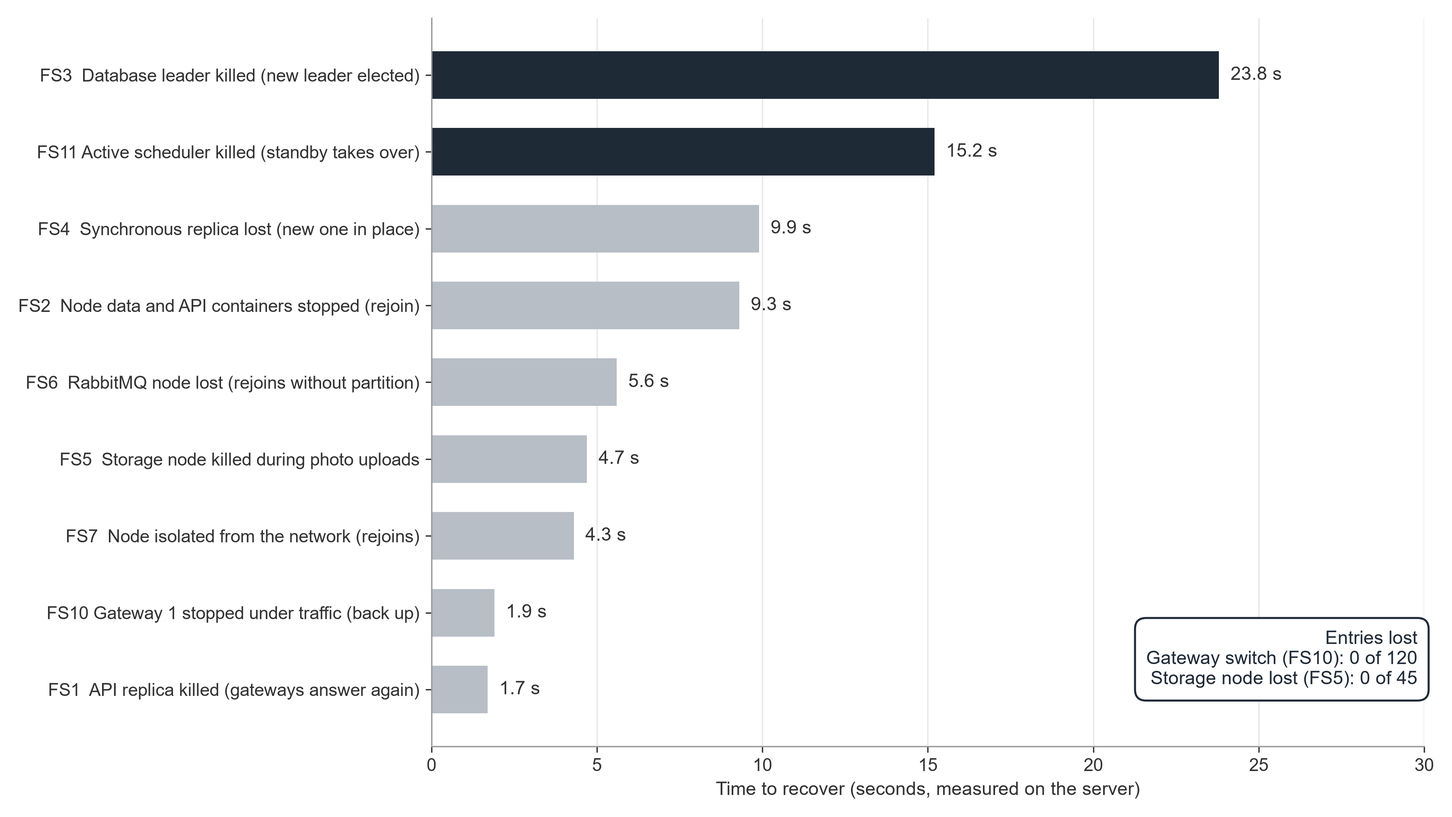
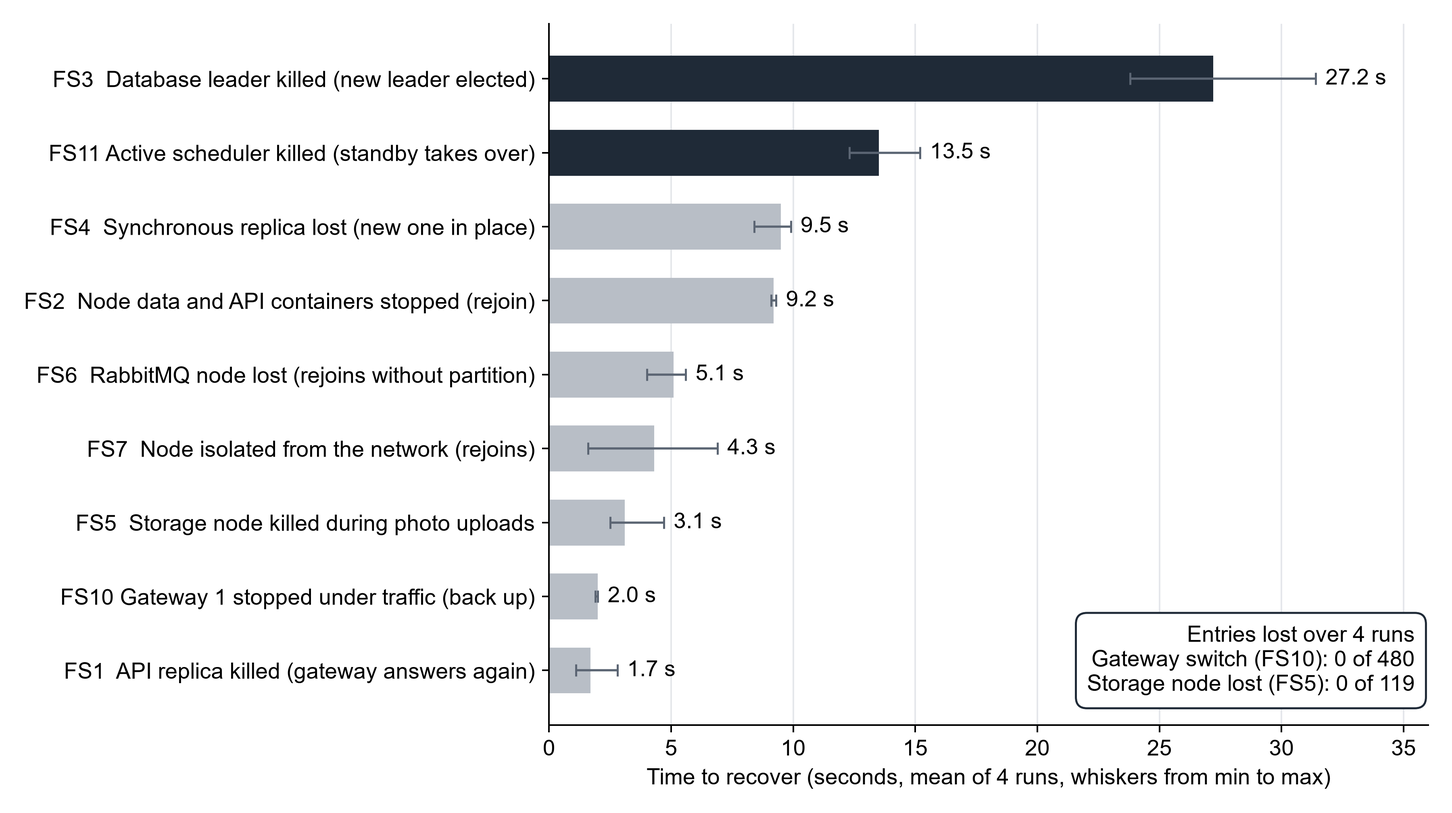
Publish the averaged fault results, the FS8 run and the new fault chart

diff --git a/Fieldnote/04_Documentacao_Tecnica/fault-model.md b/Fieldnote/04_Documentacao_Tecnica/fault-model.md
@@ -1,8 +1,9 @@
 # Fault model
 
-Status: implemented and measured, 11 November 2026. The scenarios were run on the server on 9 November
-2026 with the scripts in `infra/chaos/`: scenarios 1 to 7, 10 and 11 pass on the three-node cluster. Scenario 9 passed on the
-development stack. Scenario 8 has not been run with a phone yet. The three logical nodes are container groups on one virtual
+Status: implemented and measured; each server scenario was run four times, the first on 9 November 2026. The scenarios
+use the scripts in `infra/chaos/`: scenarios 1 to 7, 10 and 11 passed all four runs on the three-node cluster (36 of 36). Scenario 9
+passed on the development stack. Scenario 8 passed on the Android emulator; a run on a physical phone is planned for the final
+delivery. The three logical nodes are container groups on one virtual
 machine, so the tests show the behaviour of the clusters when a node's containers stop or its network is cut; they do not show
 the loss of a physical machine.
 
@@ -19,23 +20,23 @@ Docker host itself is outside them: see [single points of failure](#single-point
 | Functions available after one failure | Receiving entries, the researcher dashboard, delivery of scheduled activities (push, or on app open if push fails) |
 | How failures are detected | Traefik health checks on `/api/v1/health/ready`, Patroni leader keys with a TTL in etcd, the scheduler lease, RabbitMQ and Garage cluster membership. Prometheus and Grafana show the metrics; no alert rules are defined |
 | How components recover | Docker restarts crashed containers (`restart: unless-stopped`; a container stopped with `docker kill` counts as stopped by hand and stays down, so the scripts start it again), Patroni promotes the synchronous replica, the standby scheduler takes the lease, a returning node rejoins its clusters and resynchronises |
-| Data that can be lost | When one logical node fails, no entry is lost once the API has confirmed it (recovery point objective of zero). The API confirms only after the synchronous commit has returned successfully, and the database waits for the synchronous replica rather than confirm on one node. The one documented exception, a cancelled commit wait, is the edge case row in [what can be lost or repeated](#what-can-be-lost-or-repeated); the API never confirms in that case. The loss of the host is the declared exception: data returns from the last daily backup, and entries made after it are lost. The zero was measured for two cases: 45 entries with photos sent while a Garage node was down (0 lost, 0 duplicated) and 120 entries sent while gateway 1 was down (0 lost, 0 duplicated) |
+| Data that can be lost | When one logical node fails, no entry is lost once the API has confirmed it (recovery point objective of zero). The API confirms only after the synchronous commit has returned successfully, and the database waits for the synchronous replica rather than confirm on one node. The one documented exception, a cancelled commit wait, is the edge case row in [what can be lost or repeated](#what-can-be-lost-or-repeated); the API never confirms in that case. The loss of the host is the declared exception: data returns from the last daily backup, and entries made after it are lost. The zero was measured for two cases, over four runs each: 119 entries with photos sent while a Garage node was down (0 lost, 0 duplicated) and 480 entries sent while gateway 1 was down (0 lost, 0 duplicated) |
 | Consistency between replicas | Strict synchronous replication to one database replica, quorum writes in object storage and in the broker queues |
 
 ## Recovery times
 
-Targets come from the design; measured values come from the run on the server on 9 November 2026.
+Targets come from the design. Each cluster scenario was run four times on the server under the same conditions, the first on 9 November 2026. Measured values are the mean of the four runs, with min to max in brackets. The raw logs of the first run are in `infra/chaos/results/20261109-2016/` in the repository, and `python infra/chaos/summarize.py <logs folder> --md` turns a folder of logs into this kind of table.
 
 | Component | Target | Measured | Basis |
 |---|---|---|---|
-| API replica | Under 5 s | Both gateways answer again after 1.1 s and 1.7 s; all 3 APIs healthy 9.3 s after `api2` is started again | Traefik health check every 2 s |
-| Gateway | Under 5 s | 0 of 120 entries lost while gateway 1 was stopped; gateway 1 answers again 1.9 s after the restart. The time of the first switch is not recorded in the table | The app switches to the other gateway after a failed request |
-| Scheduler | Under 20 s | 15.2 s | Lease of 15 s plus one renewal period, with the database available |
-| Database primary | Up to 45 s | 23.8 s until `pg3` leads; the old primary rejoined as a replica and the cluster was complete after 27 s | Patroni `ttl` 30 s, `loop_wait` 10 s. `/health/ready` needs the database primary, so the API and the dashboard do not answer during this pause |
-| Synchronous replica | A few seconds of paused writes | New synchronous replica after 9.9 s, with 0 failed requests on both gateways | Patroni assigns the synchronous role to the other replica |
-| Broker node, storage node | No interruption expected | RabbitMQ left the active set in 0.7 s and rejoined without a partition in 5.6 s. Garage was back at 3 of 3 nodes after 4.7 s, with 45 of 45 photo entries confirmed | The remaining 2 members hold the quorum. An upload connected to the failed storage node is retried with a new signed URL |
-| Logical node | Services keep 2 of 3 members | The other two nodes kept leader and synchronous replica; the node joined every cluster again 9.3 s after it was restarted | Quorum of 2 in every cluster |
-| Partitioned node | The pair keeps working | Same result; the node joined again 4.3 s after the network was reconnected | `cluster` network disconnected for the node |
+| API replica | Under 5 s | Gateway 1 answers again after 1.7 s (1.1 to 2.8 s), gateway 2 after 1.3 s (1.1 to 1.7 s); all 3 APIs healthy 9.7 s (8.8 to 10.5 s) after `api2` is started again | Traefik health check every 2 s with a 1 s timeout, so a failed replica is out of the routing within a few seconds |
+| Gateway | Under 5 s | 0 of 480 entries lost over four runs while gateway 1 was stopped; each client retried on gateway 2 less than 1 ms after the error (target under 5 s); gateway 1 answers again 2.0 s (1.9 to 2.0 s) after the restart | The app switches to the other gateway after a failed request |
+| Scheduler | Under 20 s | 13.5 s (12.3 to 15.2 s) | Lease of 15 s renewed every 5 s, so takeover comes 10 to 15 s after the leader dies, with the database available |
+| Database primary | Up to 45 s | New leader elected in 27.2 s (23.8 to 31.4 s); the old primary rejoined as a replica and the cluster was complete again in 31.0 s (27.0 to 34.5 s) | Patroni `ttl` 30 s and `loop_wait` 10 s: the leader key expires 20 to 30 s after the primary dies. `/health/ready` needs the database primary, so the API and the dashboard do not answer during this pause |
+| Synchronous replica | A few seconds of paused writes | New synchronous replica after 9.5 s (8.4 to 9.9 s), with 0 failed requests | Patroni assigns the synchronous role to the other replica |
+| Broker node, storage node | No interruption expected | RabbitMQ left the active set in 0.6 s (0.6 to 0.7 s) and rejoined without a partition in 5.1 s (4.0 to 5.6 s). Garage was back at 3 of 3 nodes after 3.1 s (2.5 to 4.7 s), with 119 of 119 photo entries confirmed over four runs | The remaining 2 members hold the quorum. An upload connected to the failed storage node is retried with a new signed URL |
+| Logical node | Services keep 2 of 3 members | The other two nodes kept leader and synchronous replica; the node joined every cluster again 9.2 s (9.1 to 9.3 s) after it was restarted | Quorum of 2 in every cluster |
+| Partitioned node | The pair keeps working | Same result; the node joined again 4.3 s (1.6 to 6.9 s) after the network was reconnected | `cluster` network disconnected for the node |
 
 ## What can be lost or repeated
 
@@ -70,18 +71,18 @@ time to detection and recovery, restores the service and prints PASS or FAIL. Sc
 and count lost and duplicated entries. `docker kill` simulates a crash; the scripts then start the container again, because
 Docker does not restart a container stopped that way. Scenario 2 stops the 8 containers `etcd`, `pg`, `rabbitmq`, `garage`,
 `api`, `traefik`, `outbox-relay` and, on node 2, `media-worker` of the node; the scheduler and Tailscale containers stay up.
-Records of the server run are in `/srv/fieldnote/chaos/20261109-2016/` on the virtual machine.
+The raw logs of the first server run are in `infra/chaos/results/20261109-2016/` in the repository. To reproduce the table of means, minimums and maximums from a folder of logs, run `python infra/chaos/summarize.py <logs folder> --md`.
 
 | # | Injected failure | Status | Measured result |
 |---|---|---|---|
-| 1 | Kill an API container while entries are being sent | Pass on the server | Both gateways answer again after 1.1 s and 1.7 s (target under 5 s); all 3 APIs healthy 9.3 s after the restart. Loss of entries not measured here |
-| 2 | Stop every container of one logical node, start them again later | Pass on the server (node 2) | The other two nodes keep leader and synchronous replica with 2 of 3 members; the node joins every cluster again after 9.3 s |
-| 3 | Kill the database primary | Pass on the server | `pg3` leads after 23.8 s (target up to 45 s); the old primary rejoins as a replica, cluster complete after 27 s. The API and the dashboard do not answer during the pause |
-| 4 | Kill the synchronous database replica | Pass on the server | New synchronous replica after 9.9 s; 0 failed requests on both gateways; no write lost |
-| 5 | Kill an object storage node during media uploads | Pass on the server | 45 entries with photos sent, 45 confirmed, 0 lost, 0 duplicated; Garage at 3 of 3 nodes after 4.7 s |
-| 6 | Kill a broker node | Pass on the server | The node leaves the active set after 0.7 s and rejoins without a partition after 5.6 s. Loss of events not measured here |
-| 7 | Disconnect one node from the `cluster` network | Pass on the server (node 2) | The remaining pair keeps leader and synchronous replica; the node joins again 4.3 s after reconnection |
-| 8 | Phone in airplane mode during 3 entries | Not run yet | Needs the preview APK on a phone and a researcher token; the script `fs8-airplane-mode.sh` exists. The app does keep entries in its queue and resend them, which is covered by the app's tests, not by this scenario |
+| 1 | Kill an API container while entries are being sent | Pass on the server, 4 of 4 runs | Gateway 1 answers again after 1.7 s (1.1 to 2.8 s) and gateway 2 after 1.3 s (1.1 to 1.7 s) (target under 5 s); all 3 APIs healthy 9.7 s (8.8 to 10.5 s) after the restart. Loss of entries not measured here |
+| 2 | Stop every container of one logical node, start them again later | Pass on the server (node 2), 4 of 4 runs | The other two nodes keep leader and synchronous replica with 2 of 3 members; the node joins every cluster again after 9.2 s (9.1 to 9.3 s) |
+| 3 | Kill the database primary | Pass on the server, 4 of 4 runs | New leader after 27.2 s (23.8 to 31.4 s; target up to 45 s); the old primary rejoins as a replica, cluster complete after 31.0 s (27.0 to 34.5 s). The API and the dashboard do not answer during the pause |
+| 4 | Kill the synchronous database replica | Pass on the server, 4 of 4 runs | New synchronous replica after 9.5 s (8.4 to 9.9 s); 0 failed requests; no write lost |
+| 5 | Kill an object storage node during media uploads | Pass on the server, 4 of 4 runs | Over four runs 119 entries with photos sent, 119 confirmed, 0 lost, 0 duplicated, all files readable; Garage back at 3 of 3 nodes after 3.1 s (2.5 to 4.7 s) |
+| 6 | Kill a broker node | Pass on the server, 4 of 4 runs | The node leaves the active set after 0.6 s (0.6 to 0.7 s) and rejoins without a partition after 5.1 s (4.0 to 5.6 s). Loss of events not measured here |
+| 7 | Disconnect one node from the `cluster` network | Pass on the server (node 2), 4 of 4 runs | The remaining pair keeps leader and synchronous replica; the node joins again 4.3 s (1.6 to 6.9 s) after reconnection |
+| 8 | Phone in airplane mode during 3 entries | Pass on the Android emulator | Pixel 8 image with the preview APK connected to the cluster gateways. The script `fs8-airplane-mode.sh` turned Wi-Fi and mobile data off, 3 text entries were recorded offline (the app showed them as waiting for network), the network came back and the 3 entries reached the server about 2 s later, each exactly once. A run on a physical phone is planned for the final delivery |
 | 9 | Restore the latest encrypted backup on a clean stack | Passed on the development stack, not in the server run | Runs in a throwaway project with its own PostgreSQL and Garage and compares the counts of entries and files, leaving out participants with a pending erasure. The figures are not in the server results table |
-| 10 | Stop gateway 1 while the app and the dashboard are in use | Pass on the server | 10 simulated phones sent 120 entries, 120 confirmed, 0 lost, 0 duplicated, switching to gateway 2; gateway 1 answers again after 1.9 s. Text entries only, because media uploads depend on gateway 1 |
-| 11 | Kill the active scheduler replica during the day | Pass on the server | The standby holds the lease after 15.2 s (target under 20 s); no plan duplicated |
+| 10 | Stop gateway 1 while the app and the dashboard are in use | Pass on the server, 4 of 4 runs | Over four runs 10 simulated phones per run sent 480 entries, 480 confirmed, 0 lost, 0 duplicated; each client retried on gateway 2 less than 1 ms after the error (target under 5 s); gateway 1 answers again 2.0 s (1.9 to 2.0 s) after the restart. Text entries only, because media uploads depend on gateway 1 |
+| 11 | Kill the active scheduler replica during the day | Pass on the server, 4 of 4 runs | The standby holds the lease after 13.5 s (12.3 to 15.2 s) (target under 20 s); no plan duplicated |

diff --git a/Fieldnote/01_Memoria_Descritiva/memoria.md b/Fieldnote/01_Memoria_Descritiva/memoria.md
@@ -1,7 +1,7 @@
 # Descriptive report: Fieldnote
 
 Version 2, 11 November 2026 (second delivery). The platform is built and runs as a working prototype;
-this version describes it as built. The phone fault test (FS8) is the only scenario still to run.
+this version describes it as built. The phone fault test (FS8) was run on the Android emulator; a run on a physical phone is planned for the final delivery.
 
 ## Identification
 
@@ -35,7 +35,7 @@ Fieldnote is a distributed platform for mobile ethnography and diary studies. Pa
 
 The platform is built and runs. Researchers use a web dashboard to create studies and activities, invite participants with personal codes, poster codes or a volunteer pool, follow entries and adherence in real time, tag entries and export the data. Participants use an Android app to join a study by QR code or typed code, accept the consent, receive prompts and record text, photo, video, audio, scale or choice entries with date, time and, when the study asks for it, location. The app keeps entries in a local queue while offline and resends them without duplicates. Administrators manage researcher accounts, the audit log and data erasure.
 
-The backend runs as three logical nodes on one virtual machine, reached through two Tailscale gateways with HTTPS. Each node holds an API replica and one member of each data cluster: PostgreSQL with Patroni, RabbitMQ with quorum queues and Garage object storage with three copies of every file. We tested eleven failure scenarios with scripts. Ten pass, nine of them on the server: the database leader is replaced in 23.8 s, a gateway failure loses none of 120 entries, some with photos, sent from ten simulated phones, the loss of a storage node loses none of 45 photo entries, and a standby scheduler takes over in 15.2 s. The restore of the encrypted backup also passes. The phone in airplane mode is still to be run. The whole stack starts with Docker Compose and is monitored with Prometheus and Grafana.
+The backend runs as three logical nodes on one virtual machine, reached through two Tailscale gateways with HTTPS. Each node holds an API replica and one member of each data cluster: PostgreSQL with Patroni, RabbitMQ with quorum queues and Garage object storage with three copies of every file. We tested eleven failure scenarios with scripts, and all pass. Nine ran on the server, each four times (36 of 36 passed): the database leader is replaced in 27.2 s on average, a gateway failure loses none of 480 entries sent from ten simulated phones, the loss of a storage node loses none of 119 photo entries, and a standby scheduler takes over in 13.5 s. The restore of the encrypted backup passes on the development stack, and the phone in airplane mode passes on the Android emulator. The whole stack starts with Docker Compose and is monitored with Prometheus and Grafana.
 
 The artificial intelligence component is a constraint satisfaction scheduler implemented from scratch, with backtracking, forward checking, MRV, LCV and AC-3, which decides when to prompt each participant. On generated studies of up to 100 participants it breaks no constraint, while fixed-hour prompting overloads slots and breaks minimum gaps. On 300 small studies it matched an exhaustive search every time. AC-3 reports the clashes of minimum gaps and leaves to the search the choice of which prompt to drop. The scheduler also weighs load by entry type and shares capacity across studies.
 
@@ -174,23 +174,25 @@ are in `05_Artefactos/mockups`.
   aggregate and handle erasure requests, confirmed with a one-time code.
 - Entries carry a UUID created on the phone, so a resend after a failure never duplicates one.
 
-Fault tolerance was measured with the failure scripts on the server. Ten of eleven scenarios
-pass:
+Fault tolerance was measured with the failure scripts on the server. All eleven scenarios pass.
+Each of the nine cluster scenarios was run four times on the server and passed every time
+(36 of 36); the first run was on 9 November 2026. The values below are the mean of the four runs:
 
 | Scenario | Measured result |
 |---|---|
-| Kill an API container | Both gateways answer again in under 2 s |
-| Kill the database leader | New leader in 23.8 s; the old one returns as a replica |
-| Kill the synchronous replica | New synchronous replica in 9.9 s, no failed request |
-| Stop the data and API containers of a node | The other two keep the leader and a synchronous replica; the node rejoins in 9.3 s |
-| Kill a broker node | Out of the active set in 0.7 s; rejoins in 5.6 s |
+| Kill an API container | Gateway 1 answers again in 1.7 s and gateway 2 in 1.3 s; all three APIs healthy 9.7 s after the restart |
+| Kill the database leader | New leader in 27.2 s (23.8 to 31.4 s); the old one returns as a replica and the cluster is complete in 31.0 s |
+| Kill the synchronous replica | New synchronous replica in 9.5 s, no failed request |
+| Stop the data and API containers of a node | The other two keep the leader and a synchronous replica; the node rejoins in 9.2 s |
+| Kill a broker node | Out of the active set in 0.6 s; rejoins in 5.1 s |
 | Cut a node off the network | The remaining pair keep working; the node rejoins 4.3 s after reconnection |
-| Kill a storage node during uploads | 45 photo entries sent, 45 confirmed, none lost or duplicated |
-| Stop gateway 1 under ten simulated phones | Clients switch to gateway 2; 120 sent, 120 confirmed |
-| Kill the active scheduler | The standby takes over in 15.2 s, no duplicate plan |
+| Kill a storage node during uploads | 119 photo entries sent over four runs, 119 confirmed, none lost or duplicated; Garage back at 3 of 3 nodes in 3.1 s |
+| Stop gateway 1 under ten simulated phones | Clients retry on gateway 2 in under 1 ms; 480 sent over four runs, 480 confirmed, none lost or duplicated |
+| Kill the active scheduler | The standby takes over in 13.5 s, no duplicate plan |
 | Restore the encrypted backup | Passes on the development stack |
+| Phone in airplane mode | Passes on the Android emulator: 3 entries recorded offline reached the server about 2 s after the network came back, each once |
 
-The eleventh scenario, a phone in airplane mode, still has to be run with a real phone.
+The airplane mode scenario has not been run on a physical phone yet; that run is planned for the final delivery.
 
 ### Relevant contributions
 
@@ -246,7 +248,7 @@ The eleventh scenario, a phone in airplane mode, still has to be run with a real
   its network link is outside the fault model, and starting the stack elsewhere is manual.
 - Network failures are simulated by cutting one node off from the other two. Packet loss,
   latency and other partitions are not tested.
-- The phone fault test (FS8) has not run yet. The camera and microphone were tested only on the
+- The phone fault test (FS8) ran on the Android emulator only. The camera and microphone were tested only on the
   emulator, and push notifications need the Firebase key in the Expo project.
 - The app is built and tested for Android only.
 - Access is limited to devices on the project's Tailscale network.
@@ -259,7 +261,7 @@ The eleventh scenario, a phone in airplane mode, still has to be run with a real
 
 ### Future work
 
-- Run FS8 with a phone, and give each logical node its own virtual machine for the final delivery.
+- Run FS8 on a physical phone, and give each logical node its own virtual machine for the final delivery.
 - Add rate limiting and the cleanup of orphan uploads.
 - Stream the export instead of building it whole.
 - A lower bound for branch and bound from the AC-3 clashes.

diff --git a/Fieldnote/04_Documentacao_Tecnica/architecture.md b/Fieldnote/04_Documentacao_Tecnica/architecture.md
@@ -138,7 +138,7 @@ The participant app's interface texts and the consent text are available in Port
 | Client | Every phone is independent | The app sees a network error or a timeout | The entry stays in the local queue and is resent with the same UUID |
 | Entry | 2 gateways, each with Tailscale and Traefik | The client's request fails with a network error, a 502, 503 or 504, or after 10 s | The app repeats the request once on the other gateway |
 | API | 3 stateless replicas | Traefik calls `/api/v1/health/ready` every 2 s with a 1 s timeout. It answers 503 if the replica cannot reach the database primary or a broker | Traefik stops routing to the failed replica. Docker restarts a crashed container |
-| Scheduler | 2 replicas, one leader | The leader renews a lease row in the database every 5 s. A lease not renewed for 15 s has expired | The standby takes the expired lease and continues from the plan stored in the database. Measured takeover: 15.2 s |
+| Scheduler | 2 replicas, one leader | The leader renews a lease row in the database every 5 s. A lease not renewed for 15 s has expired | The standby takes the expired lease and continues from the plan stored in the database. Measured takeover: 13.5 s on average over four runs (12.3 to 15.2 s) |
 | Database | 1 primary, 1 synchronous replica, 1 asynchronous replica | The primary stops renewing its leader key in etcd (TTL 30 s) | Patroni promotes the synchronous replica. The old primary rejoins as a replica |
 | Broker | 3 nodes, quorum queues | The RabbitMQ cluster loses a member | Queues keep working with 2 of 3 members. Unacknowledged messages are delivered again |
 | Object storage | 3 copies, one per zone, writes confirmed after 2 | Garage nodes stop seeing the member | Reads and writes continue with 2 nodes. The returning node catches up |
@@ -204,7 +204,7 @@ emptied when a write fails with a connection error. The API retries the whole tr
 times; the retry is safe because every write is idempotent. A primary cut off from etcd demotes
 itself to read-only when its leader key expires, so it stops accepting writes.
 
-A multi-host connection string with `target_session_attrs` is a libpq feature, which psycopg 3 supports. On the server a failover of the primary took 23.8 s, inside the Patroni target of 45 s.
+A multi-host connection string with `target_session_attrs` is a libpq feature, which psycopg 3 supports. On the server a failover of the primary took 27.2 s on average over four runs (23.8 to 31.4 s), inside the Patroni target of 45 s.
 
 ### Real time
 
@@ -229,7 +229,7 @@ because the app asks the API for pending prompts every time it opens.
 ## What is not done
 
 - One virtual machine per node: the nodes are logical, on one VM, until the final delivery.
-- Scenario 8 of the fault model (phone in airplane mode) has not been run with a phone.
+- Scenario 8 of the fault model (phone in airplane mode) passed on the Android emulator; it has not been run on a physical phone.
 - Rate limiting at the gateways is not configured; only the API throttles logins and account sign-in codes.
 - Cleanup of orphan media objects (`pending` after 7 days) and the purge of published outbox events.
 - Prometheus has no alert rules.

diff --git a/README.md b/README.md
@@ -36,9 +36,10 @@ Distribuída para Mobile Ethnography e Diary Studies").
 Working prototype for the second delivery. The API, the scheduler, the media worker, the
 researcher dashboard and the participant app run against the development stack and against the
 three-node cluster, which is deployed on a server and reached through two Tailscale gateways with
-HTTPS. Ten of the eleven failure scenarios of the fault model pass (nine on the server, plus the
-restore of the encrypted backup on the development stack); the eleventh, a phone in airplane mode,
-still has to be run with a phone. The scheduler is evaluated with a reproducible suite
+HTTPS. All eleven failure scenarios of the fault model pass: nine on the server, each run four times
+(36 of 36), the restore of the encrypted backup on the development stack, and the phone in
+airplane mode on the Android emulator (a run on a physical phone is planned for the final
+delivery). The scheduler is evaluated with a reproducible suite
 (`services/scheduler/evaluation/results.md`). Push notifications through Expo still need the
 Firebase key in the Expo project, and the camera and microphone are tested only on the emulator.
 The app is built for Android only. Rate limiting and the cleanup of abandoned uploads are not
@@ -144,14 +145,16 @@ approved by the Artificial Intelligence lecturer on 1 October 2026.
 Security measures are in [security](Fieldnote/04_Documentacao_Tecnica/security.md), and the
 failures, with how each is detected and recovered, in the [fault model](Fieldnote/04_Documentacao_Tecnica/fault-model.md).
 
-Measured on the server with the scripts in `infra/chaos/`:
+Measured on the server with the scripts in `infra/chaos/`, as the mean of four runs. The raw logs of the
+first run are in `infra/chaos/results/20261109-2016/`; `python infra/chaos/summarize.py <logs folder> --md`
+turns a folder of logs into the mean, min and max table.
 
 | Failure | Result |
 |---|---|
-| Database leader killed | New leader in 23.8 s |
-| Gateway 1 stopped under traffic from 10 simulated phones | Clients switch to gateway 2; 0 of 120 entries lost |
-| Storage node killed during photo uploads | 0 of 45 entries lost |
-| Active scheduler killed | Standby takes over in 15.2 s, no duplicate plan |
+| Database leader killed | New leader in 27.2 s (23.8 to 31.4 s) |
+| Gateway 1 stopped under traffic from 10 simulated phones | Clients switch to gateway 2; 0 of 480 entries lost |
+| Storage node killed during photo uploads | 0 of 119 entries lost |
+| Active scheduler killed | Standby takes over in 13.5 s, no duplicate plan |
 
 On generated studies of 10, 50 and 100 participants the scheduler breaks no constraint, while
 fixed-hour prompting at 100 participants puts 173 prompts above the slot cap and breaks 246

diff --git a/Fieldnote/00_Identificacao/info.md b/Fieldnote/00_Identificacao/info.md
@@ -63,4 +63,4 @@ Security lecturers.
 
 ## Short summary
 
-Fieldnote is a distributed platform for mobile ethnography and diary studies. Researchers create studies and activities and follow participants in real time in a web dashboard. Participants use an Android app to receive activities and record text, photo, video, audio, scale or choice entries with date, time and location, even offline. An entry recorded in the moment cannot be collected again, so the backend runs as three logical nodes with a replicated database, message broker and file storage. In failure tests the database leader was replaced in 23.8 s and no entry was lost when a gateway or a storage node failed. A constraint satisfaction solver decides when to send each activity to each participant, within their availability and without overloading the server. The prototype runs on a server, and the phone fault test is still to be run.
+Fieldnote is a distributed platform for mobile ethnography and diary studies. Researchers create studies and activities and follow participants in real time in a web dashboard. Participants use an Android app to receive activities and record text, photo, video, audio, scale or choice entries with date, time and location, even offline. An entry recorded in the moment cannot be collected again, so the backend runs as three logical nodes with a replicated database, message broker and file storage. In failure tests the database leader was replaced in 27.2 s on average over four runs and no entry was lost when a gateway or a storage node failed; all eleven fault scenarios pass, the phone one on the emulator. A constraint satisfaction solver decides when to send each activity to each participant, within their availability and without overloading the server. The prototype runs on a server.
